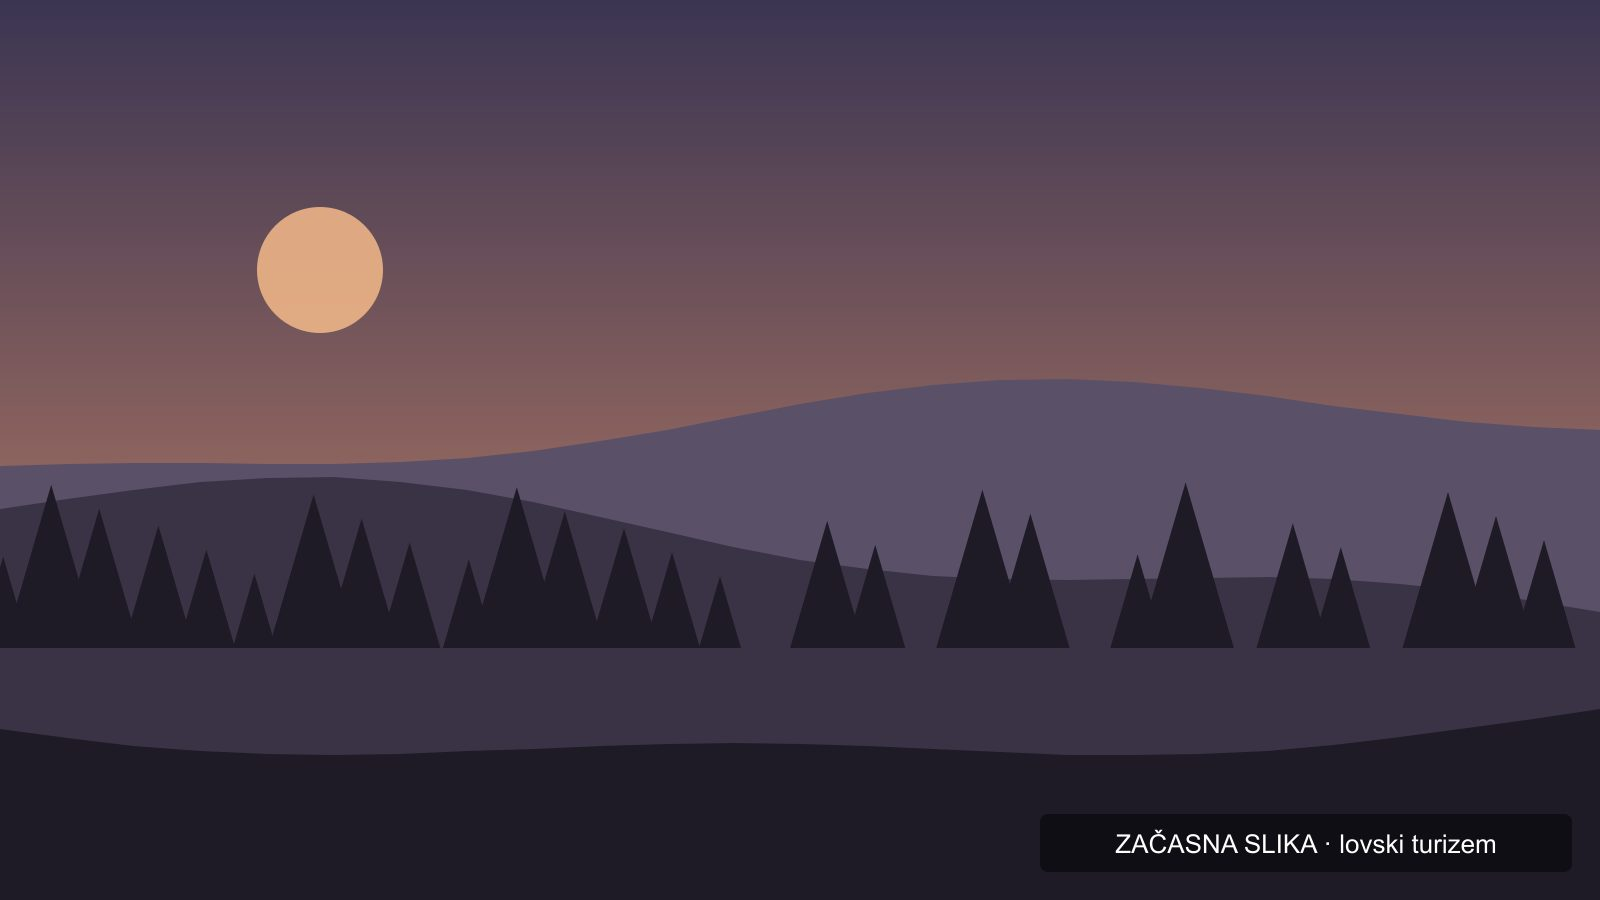
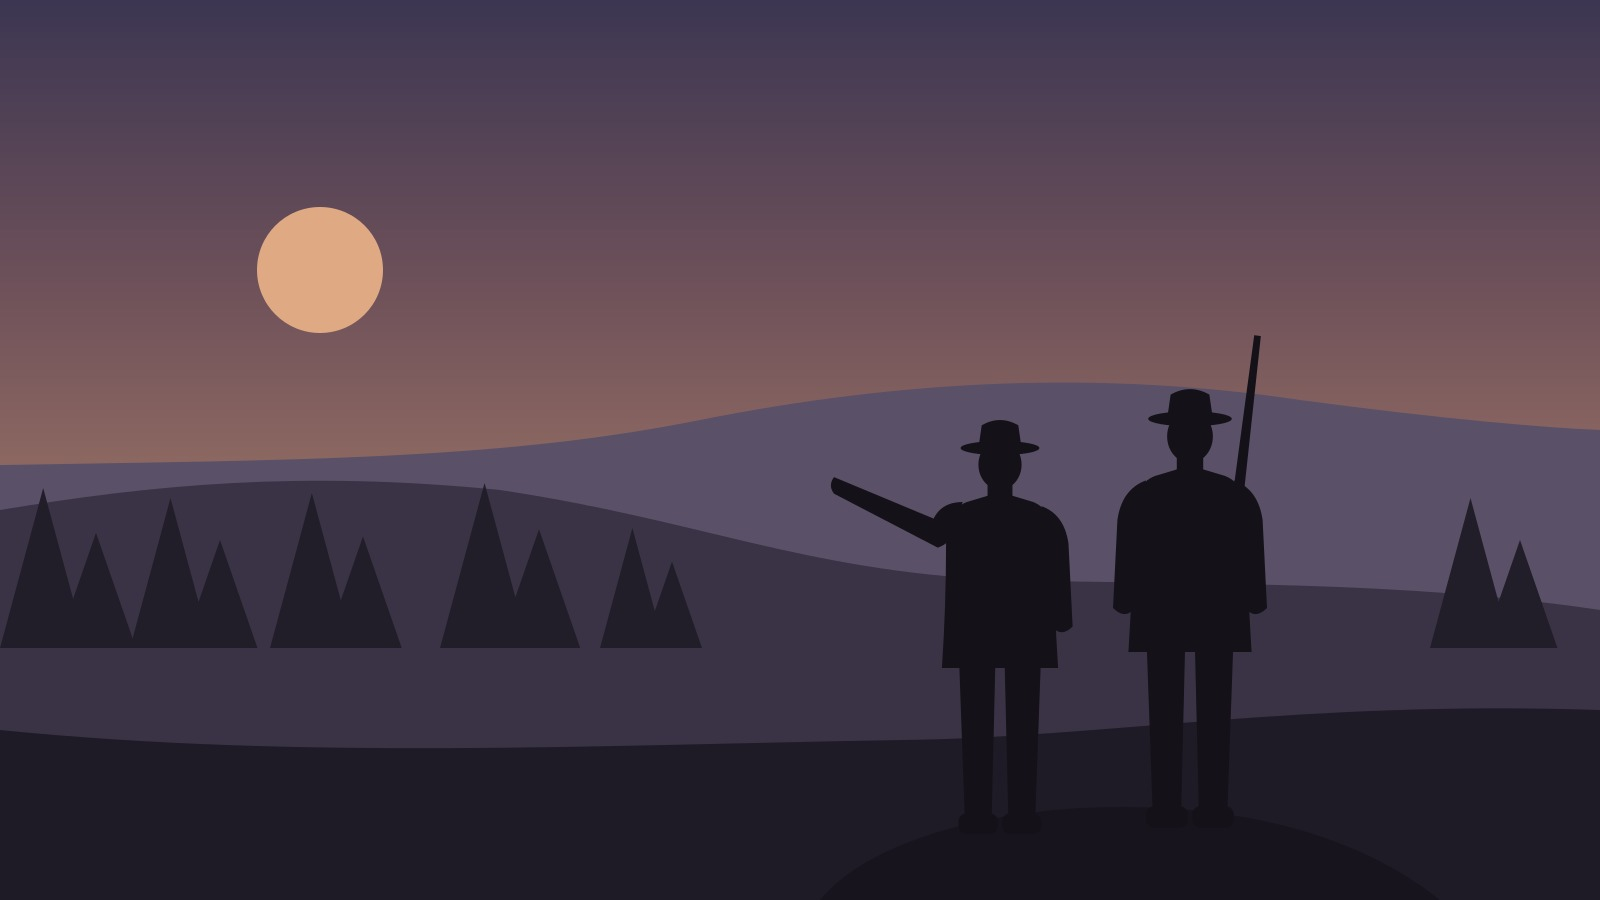
Keep the drawn home cards, swap the badger for the jackal, link eGozd
Restore the original hunting-ground drawing without its label, draw two
hunters looking out over the hunting ground for hunting tourism and a
simpler flat lodge, credit the jackal photo (CC BY-SA 4.0), add the eGozd
online report to both ways to report damage, and give headings, steps and
the numbers room after the text before them.

diff --git a/src/lib/photos.ts b/src/lib/photos.ts
@@ -2,20 +2,23 @@
 // Their alternative texts are per language in src/content/pages/<language>/site.yaml.
 //
 // Where each photo comes from:
-// - hunting-ground.jpg, band-karst.jpg: the Karst Rim (Kraški rob) above Črni
-//   Kal and from Zjat above Podpeč, next to the hunting ground; Wikimedia
-//   Commons, CC0 ("Karst Rim cliffs above Crni Kal 09.jpg", "View from Zjat of
-//   Karst Rim and Podpec tower 05.jpg").
-// - species-*.jpg except the red deer: stock photos from Wikimedia Commons,
-//   CC0, so no credit is needed: "Rehbock (April 2025).jpg",
+// - band-karst.jpg: the Karst Rim (Kraški rob) from Zjat above Podpeč, next to
+//   the hunting ground; Wikimedia Commons, CC0 ("View from Zjat of Karst Rim
+//   and Podpec tower 05.jpg").
+// - species-*.jpg except the red deer and the jackal: stock photos from
+//   Wikimedia Commons, CC0, so no credit is needed: "Rehbock (April 2025).jpg",
 //   "Wildschwein + Frischlinge.jpg", "Feldhase (Mai 2024).jpg",
-//   "Rotfuchs (Mai 2025) 1.jpg", "Dachs Ohrdruf, Thüringen.jpg",
-//   "Perdix perdix1599.jpg", "Jagdfasan-Hahn (März 2025).jpg"; cropped to
-//   16:10 at 1440 px.
+//   "Rotfuchs (Mai 2025) 1.jpg", "Perdix perdix1599.jpg",
+//   "Jagdfasan-Hahn (März 2025).jpg"; cropped to 16:10 at 1440 px.
+// - species-jackal.jpg: "Golden jackal (Canis aureus moreotica).jpg" by
+//   Charles J. Sharp, Wikimedia Commons, CC BY-SA 4.0; the page credits it
+//   (speciesCredits).
 // - species-red-deer.png: from today's site; to check before production where
 //   it was taken and that the club may publish it.
-// - hunting-lodge.jpg, lodge-interior.jpg: an illustration of the lodge drawn
-//   for this site (an Istrian stone house at dusk), until the club has photos.
+// - hunting-ground.jpg, hunting-tourism.jpg, hunting-lodge.jpg,
+//   lodge-interior.jpg: flat illustrations drawn for this site (the hunting
+//   ground by day, two hunters looking out over it at dusk, the stone lodge),
+//   which the club chose to keep.
 // - The others are placeholders (drawn landscapes labelled "ZAČASNA SLIKA"),
 //   to be replaced by photos of the real hunting ground (docs/brief.md).
 
@@ -29,8 +32,8 @@ import huntingLodge from "../assets/photos/hunting-lodge.jpg";
 import huntingTourism from "../assets/photos/hunting-tourism.jpg";
 import lodgeInterior from "../assets/photos/lodge-interior.jpg";
 import membership from "../assets/photos/membership.jpg";
-import badger from "../assets/photos/species-badger.jpg";
 import fox from "../assets/photos/species-fox.jpg";
+import jackal from "../assets/photos/species-jackal.jpg";
 import hare from "../assets/photos/species-hare.jpg";
 import partridge from "../assets/photos/species-partridge.jpg";
 import pheasant from "../assets/photos/species-pheasant.jpg";
@@ -59,9 +62,18 @@ export const speciesPhotos = {
   "wild-boar": wildBoar,
   hare,
   fox,
-  badger,
+  jackal,
   partridge,
   pheasant,
+};
+
+/** Photos under a licence that asks for a credit: who took it and the licence. */
+export const speciesCredits: Partial<Record<keyof typeof speciesPhotos, { author: string; licence: string; url: string }>> = {
+  jackal: {
+    author: "Charles J. Sharp",
+    licence: "CC BY-SA 4.0",
+    url: "https://commons.wikimedia.org/wiki/File:Golden_jackal_(Canis_aureus_moreotica).jpg",
+  },
 };
 
 /** Widths a full-width photo is built in; the browser picks one. */

diff --git a/src/styles/global.css b/src/styles/global.css
@@ -68,6 +68,17 @@ h3 {
   margin: 0 0 0.5rem;
 }
 
+/* A heading that follows text gets room above it, so it reads as the start of
+   the next part and not as the end of the last. A heading at the top of a
+   card or column has nothing before it and keeps its own margin. */
+* + h2 {
+  margin-top: 2.5rem;
+}
+
+* + h3 {
+  margin-top: 1.75rem;
+}
+
 .wrap {
   width: 100%;
   max-width: 72rem;
@@ -675,9 +686,17 @@ main.full {
   margin: 0 0 1rem;
 }
 
-.text-block h2,
+.text-block h2 {
+  margin-top: 2.5rem;
+}
+
 .text-block h3 {
-  margin-top: 2rem;
+  margin-top: 1.75rem;
+}
+
+/* Text sections after other content in the same column, such as after steps. */
+* + .text-block {
+  margin-top: 2.5rem;
 }
 
 .text-block > :first-child {
@@ -691,6 +710,11 @@ main.full {
   gap: 1.5rem 1rem;
   margin: 0;
   padding: 0;
+}
+
+/* The numbers under a page's text, as on the hunting ground. */
+* + .numbers {
+  margin-top: 2.5rem;
 }
 
 @media (min-width: 48rem) {
@@ -979,11 +1003,17 @@ main.full {
   margin: 0;
 }
 
+.species-item .credit {
+  margin-top: 0.75rem;
+  color: var(--muted);
+  font-size: 0.875rem;
+}
+
 /* The steps to report game damage. */
 .steps {
   display: grid;
   gap: 1rem;
-  margin: 0;
+  margin: 1.5rem 0;
   padding: 0;
   list-style: none;
   counter-reset: step;
@@ -1011,6 +1041,23 @@ main.full {
   background: var(--accent);
   color: var(--accent-contrast);
   font-weight: 700;
+}
+
+/* The online report on eGozd under the steps: a sentence and a button. */
+.online-report {
+  display: flex;
+  flex-wrap: wrap;
+  align-items: center;
+  gap: 0.75rem 1.5rem;
+  margin-top: 1.5rem;
+  padding: 1.25rem 1.5rem;
+  background: var(--surface-strong);
+  border-radius: var(--radius);
+}
+
+.online-report p {
+  flex: 1 1 18rem;
+  margin: 0;
 }
 
 /* The document list: title, file type and size, language. */
@@ -1166,6 +1213,11 @@ main.full {
   border-radius: var(--radius);
   background: var(--band);
   color: var(--band-text);
+}
+
+/* A box beside another in two columns starts level with it. */
+.split > .cta-box {
+  margin-top: 0;
 }
 
 .cta-box h2 {

diff --git a/src/content.config.ts b/src/content.config.ts
@@ -36,7 +36,7 @@ const text = z.string().min(1);
 const section = z.object({ heading: text, paragraphs: z.array(text).min(1) });
 const link = z.object({ label: text, url: z.url() });
 const sources = z.array(link).min(1);
-const species = ["red-deer", "roe-deer", "wild-boar", "hare", "fox", "badger", "partridge", "pheasant"] as const;
+const species = ["red-deer", "roe-deer", "wild-boar", "hare", "fox", "jackal", "partridge", "pheasant"] as const;
 
 const pages = defineCollection({
   loader: glob({ pattern: "**/*.yaml", base: "./src/content/pages" }),
@@ -126,6 +126,8 @@ const pages = defineCollection({
       reportIntro: text,
       steps: z.array(text).min(1),
       formsText: text,
+      /** The online report on the Slovenia Forest Service's eGozd portal, linked from both ways to report. */
+      egozd: z.object({ text, label: text, url: z.url() }),
       protectedHeading: text,
       protectedIntro: text,
       protectedSteps: z.array(text).min(1),

diff --git a/src/i18n/ui/hr.ts b/src/i18n/ui/hr.ts
@@ -45,6 +45,7 @@ const hr: UiStrings = {
   "cta.writeUs": "Pišite nam",
   "notFound.title": "Stranica nije pronađena",
   "notFound.text": "Stranica koju tražite ne postoji.",
+  "photo.credit": "Foto",
   "notFound.home": "Na početnu stranicu",
 };
 

diff --git a/src/i18n/ui/sr.ts b/src/i18n/ui/sr.ts
@@ -46,6 +46,7 @@ const sr: UiStrings = {
   "cta.writeUs": "Pišite nam",
   "notFound.title": "Stranica nije pronađena",
   "notFound.text": "Stranica koju tražite ne postoji.",
+  "photo.credit": "Foto",
   "notFound.home": "Na početnu stranicu",
 };
 

diff --git a/src/i18n/ui/de.ts b/src/i18n/ui/de.ts
@@ -45,6 +45,7 @@ const de: UiStrings = {
   "cta.writeUs": "Schreiben Sie uns",
   "notFound.title": "Seite nicht gefunden",
   "notFound.text": "Die gesuchte Seite existiert nicht.",
+  "photo.credit": "Foto",
   "notFound.home": "Zur Startseite",
 };
 

diff --git a/src/i18n/ui/sl.ts b/src/i18n/ui/sl.ts
@@ -45,6 +45,7 @@ const sl: UiStrings = {
   "cta.writeUs": "Pišite nam",
   "notFound.title": "Strani ni mogoče najti",
   "notFound.text": "Stran, ki ste jo iskali, ne obstaja.",
+  "photo.credit": "Foto",
   "notFound.home": "Na domačo stran",
 };
 

diff --git a/src/i18n/ui/it.ts b/src/i18n/ui/it.ts
@@ -45,6 +45,7 @@ const it: UiStrings = {
   "cta.writeUs": "Scriveteci",
   "notFound.title": "Pagina non trovata",
   "notFound.text": "La pagina richiesta non esiste.",
+  "photo.credit": "Foto",
   "notFound.home": "Vai alla home page",
 };
 

diff --git a/src/i18n/ui/en.ts b/src/i18n/ui/en.ts
@@ -47,6 +47,7 @@ const en = {
   "cta.writeUs": "Write to us",
   "notFound.title": "Page not found",
   "notFound.text": "The page you asked for doesn't exist.",
+  "photo.credit": "Photo",
   "notFound.home": "Go to the home page",
 };
 

diff --git a/README.md b/README.md
@@ -22,8 +22,8 @@ How a change moves between them is in [docs/deployment.md](docs/deployment.md). 
 
 ## Before production
 
-- **No placeholder left.** Every image labelled "ZAČASNA SLIKA" marks a photo still to come (`src/lib/photos.ts`). The hunting lodge is an illustration until the club has photos of it.
-- **Photos:** the hunting ground page has CC0 photos from Wikimedia Commons (the Karst Edge above Črni Kal, the game species). Replace the other drawn placeholders in `src/assets/photos/` with photos of the real hunting ground (today's site first, then stock photos whose licence needs no attribution), and the alternative texts in `site.yaml`. Clear the red deer photo from today's site: where it was taken and that the club may publish it.
+- **No placeholder left.** Every image labelled "ZAČASNA SLIKA" marks a photo still to come (`src/lib/photos.ts`). The three home page cards (hunting ground, hunting tourism, hunting lodge) are flat illustrations the club chose to keep, without the label.
+- **Photos:** the hunting ground page has photos from Wikimedia Commons (the Karst Edge from Zjat, the game species): CC0, except the golden jackal (CC BY-SA 4.0), which the page credits under the photo. Replace the other drawn placeholders in `src/assets/photos/` with photos of the real hunting ground (today's site first, then stock photos whose licence needs no attribution), and the alternative texts in `site.yaml`. Clear the red deer photo from today's site: where it was taken and that the club may publish it.
 - **From the club:** the club's own documents (statute, rules) as files, photos of the hunting lodge, the prices and conditions of the hunting-tourism offers. The site has no gallery.
 - **Facts:** the area, heights, species and founding year are from today's site; the club confirms each one. The seasons are from the decree (Uredba o določitvi divjadi in lovnih dob, via gov.si).
 - **Texts:** a lawyer reviews the privacy policy; a native speaker reviews every language but Slovenian (Serbian and German are new).
